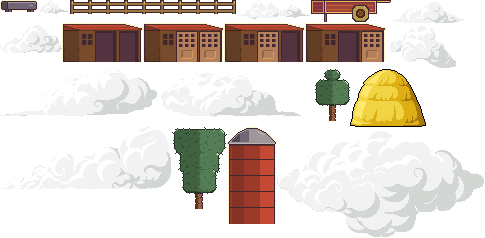
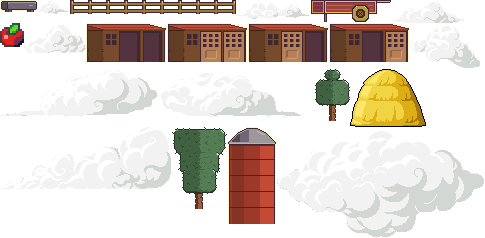
Breeding Notifications
Added flow and notifications.

Changed region(s): [[0.2474, 0.0882, 0.9897, 0.2941], [0.0, 0.0882, 0.2474, 0.2647]]

diff --git a/Horse Breeder/src/scenes/Game.js b/Horse Breeder/src/scenes/Game.js
@@ -1,6 +1,7 @@
 import HorseType from '../consts/HorseType.js';
 import { Horse } from '../sprites/Horse.js';
 import { CloudySky } from '../utils/CloudySky.js';
+import { Notification } from '../utils/Notification.js';
 
 export class Game extends Phaser.Scene {
 
@@ -32,6 +33,7 @@ export class Game extends Phaser.Scene {
         this.dropCount = 0;
 
         this.spriteGroup = this.add.group({runChildUpdate:true});
+        this.feedGroup = this.add.group();
 
         //  Graphics tools
 
@@ -97,8 +99,15 @@ export class Game extends Phaser.Scene {
         // Spawning
 
         this.time.addEvent({
-            delay: 1000,
+            delay: 3000,
             callback: this.spawnLogic,
+            callbackScope: this,
+            loop: true
+        });
+
+        this.time.addEvent({
+            delay: 3000,
+            callback: this.spawnFeed,
             callbackScope: this,
             loop: true
         });
@@ -141,15 +150,17 @@ export class Game extends Phaser.Scene {
             canvas.classList.remove("hand-fist");
             canvas.classList.add("hand-open");
         });
+
+        this.spawnFeed();
     }
 
     update(_, delta) {
         this.cloudManager.update();
 
         if (this.isGrabbing) {
-            const calmIncrease = 15 * (delta / 1000);
-            const newCalm = this.grabbed.calm + calmIncrease;
-            this.grabbed.calm = Math.min(newCalm, 100);
+            //const calmIncrease = 15 * (delta / 1000);
+            //const newCalm = this.grabbed.calm + calmIncrease;
+            //this.grabbed.calm = Math.min(newCalm, 100);
             this.updateDOM(this.grabbed);
         }
 
@@ -168,7 +179,19 @@ export class Game extends Phaser.Scene {
 
                 this.horseShadows.fillStyle(shadow.col, shadow.alpha);
                 this.horseShadows.fillEllipse(bounds.centerX, bounds.bottom - 1, bounds.width, 4);
+
+                if (sprite.calm >= 80) {
+                    this.horseShadows.lineStyle(1, 0xffffff, shadow.alpha);
+                    this.horseShadows.strokeEllipse(bounds.centerX, bounds.bottom - 1, bounds.width, 4);
+                }
             }
+        }
+
+        const feeds = this.feedGroup.getChildren();
+        for (let sprite of feeds) {
+            const bounds = sprite.getBounds();
+            this.horseShadows.fillStyle(0x000000, .3);
+            this.horseShadows.fillEllipse(bounds.centerX, bounds.bottom - 1, bounds.width, 4);
         }
     }
 
@@ -258,6 +281,10 @@ export class Game extends Phaser.Scene {
             type.sex = horse.sex;
             type.tame = horse.tame;
 
+            const sexLtr = horse.sex === 1 ? 'M' : 'F'
+            let stableMsg = `Put ${type.name} (${sexLtr}), ${horse.tame}% in stable`;
+            Notification.AddNotice(stableMsg, "plain");
+
             this.stable.push(type);
             horse.input.draggable = false;
             horse.destroy();
@@ -280,7 +307,6 @@ export class Game extends Phaser.Scene {
             if (this.captured.length < 4) {
 
                 //this.captured.push(horse);
-
                 horse.setVelocityX(-16);
 
                 const bottomY = horse.getBottomCenter().y;
@@ -300,6 +326,20 @@ export class Game extends Phaser.Scene {
                         duration: 200,
                         ease: 'Linear'
                     });
+                }
+
+                // Feed group check 
+                const isOverlappingFeed = this.feedGroup.getChildren().some(feedItem => {
+                    return Phaser.Geom.Intersects.RectangleToRectangle(horse.getBounds(), feedItem.getBounds());
+                });
+                if (isOverlappingFeed) {
+
+                    const overlappedFeedItem = this.feedGroup.getChildren().find(feedItem =>
+                        Phaser.Geom.Intersects.RectangleToRectangle(horse.getBounds(), feedItem.getBounds())
+                    );
+                    overlappedFeedItem.destroy(true);
+
+                    horse.calm += 20;
                 }
             }
             else {
@@ -344,6 +384,23 @@ export class Game extends Phaser.Scene {
             this.spriteGroup.add(horse);
         }
     }
+
+    //  -
+    spawnFeed() {
+        if (this.feedGroup.countActive() < 3) {
+
+            const width = this.scale.width;
+
+            const startX = Phaser.Math.Between(width * .45, width * .86);
+            const startY = Phaser.Math.Between(198, 216) - 8;
+
+            const feed = this.add.sprite(startX, startY, "atlas", "feed");
+            feed.setDepth(startY + 8);
+            this.feedGroup.add(feed);
+        }
+    }
+
+    //  -
 
     breedLogic() {
         
@@ -409,6 +466,16 @@ export class Game extends Phaser.Scene {
         horse.init(16);
         horse.playWalk();
         this.spriteGroup.add(horse);
+
+        if (isNewType) {
+            const typeMsg = `You have bred a ${type.name}`;
+            Notification.AddNotice(typeMsg, "flashing");
+        }
+        else {
+            const sexLtr = horse.sex === 1 ? 'M' : 'F';
+            const breedMsg = `Bred a ${type.name} (${sexLtr}) with ${horse.tame}% tameness`;
+            Notification.AddNotice(breedMsg, "breed-notice");
+        }
     }
 
     breedHUD() {

diff --git a/Horse Breeder/src/sprites/Horse.js b/Horse Breeder/src/sprites/Horse.js
@@ -1,3 +1,5 @@
+import HorseState from "../consts/HorseState.js"
+
 let UID = 1;
 
 export class Horse extends Phaser.Physics.Arcade.Sprite {
@@ -15,7 +17,7 @@ export class Horse extends Phaser.Physics.Arcade.Sprite {
         this.calm = Phaser.Math.Between(5, 20);
         this.sex =  Phaser.Math.Between(1, 2);
 
-        this.calm = 100;
+        this.state = HorseState.WILD;
 
         this.type = horseType;
         this.colNum = horseType.sheet;
@@ -33,6 +35,8 @@ export class Horse extends Phaser.Physics.Arcade.Sprite {
 
     update(_, delta) {
 
+        this.setDepth(this.getBottomCenter().y);
+
         const velocityX = this.body.velocity.x;
 
         if (!this.isTweeningFlip) {
@@ -43,7 +47,19 @@ export class Horse extends Phaser.Physics.Arcade.Sprite {
             }
         }
 
-        this.setDepth(this.getBottomCenter().y);
+        //  State switching
+        const speed = Math.abs(this.body.velocity.x);
+        if (speed < 64 && speed > 0) {
+
+            this.calm = Math.max(0, this.calm - (delta * .001) * 2);
+
+            // CALM
+            this.pacing();
+
+            if (this.calm <= 0) {
+                this.escaping();
+            }
+        }
 
         // Check if the horse has moved off-screen
         if ((this.x < -this.width / 2) && velocityX < 0) {
@@ -53,10 +69,26 @@ export class Horse extends Phaser.Physics.Arcade.Sprite {
         }
     }
 
-    setDragging() {
+    pacing() {
+
+        const min = this.scene.scale.width * .35;
+        const max = this.scene.scale.width * .85;
+        const velX = this.body.velocity.x;
+
+        if (this.x >= max && velX > 0) {
+            this.setVelocityX(velX * -1);
+        }
+        else if (this.x <= min && velX < 0) {
+            this.setVelocityX(velX * -1);
+        }
     }
 
-    stopDrag() {
+    escaping() {
+        const speed = Math.abs(this.body.velocity.x);
+        if (speed < 64) {
+            this.body.velocity.x *= 5;
+            this.playRun();
+        }
     }
 
     getShadowColour() {

diff --git a/Horse Breeder/css/all.css b/Horse Breeder/css/all.css
@@ -130,12 +130,19 @@ img.player-image {
     position: absolute;
     left: 2rem;
     bottom: 2rem;
-    width: 400px;
+    width: 35%;
+    min-width: 400px;
     height: 7rem;
 
     background-color: rgba(0, 0, 0, .3);
     border-radius: 1rem;
     padding: 1rem;
+}
+.notifications-list {
+    position: relative;
+    overflow: hidden;
+    width: 100%;
+    height: 100%;
 }
 
 .notification-message {
@@ -143,6 +150,27 @@ img.player-image {
     font-family: "Silkscreen", sans-serif;
     text-shadow: 1px 1px 0 #000;
 }
+
+.breed-notice {
+    color: lightsalmon;
+}
+.flashing {
+    animation: flashing-color 1s infinite; /* 1s duration, infinite loop */
+}
+
+@keyframes flashing-color {
+    0% {
+        color: yellow;
+    }
+    50% {
+        color: brown;
+        
+    }
+    100% {
+        color: yellow;
+    }
+}
+
 
 /*  -   Horse breeding bar      -------------------------------------------- */
 

diff --git a/Horse Breeder/index.html b/Horse Breeder/index.html
@@ -116,10 +116,10 @@
             </section>
 
             <!-- Notifications -->
-            <section id="notifications" class="notification-box">
-                <p id="notification-template" class="notification-message">You unlocked a new breed</p>
-                <p id="n1" class="notification-message">Successfully bred a new horse</p>
-                <p id="n2" class="notification-message">Food unlocked</p>
+            <section id="" class="notification-box">
+                <div id="notifications" class="notifications-list">
+                    <p id="notification-template" class="notification-message">Welcome, let's get started.</p>
+                </div>
             </section>
 
             <!-- Horse breeding bar -->

diff --git a/Horse Breeder/src/utils/Notification.js b/Horse Breeder/src/utils/Notification.js
@@ -1,0 +1,15 @@
+export class Notification {
+
+    static AddNotice(msg, style) {
+
+        const divElement = document.getElementById("notifications");
+
+        // Create a new paragraph element for the notification
+        const newNotification = document.createElement('p');
+        newNotification.textContent = msg;
+        newNotification.className = style;
+        newNotification.classList.add("notification-message");
+
+        divElement.insertBefore(newNotification, divElement.firstChild);
+    }
+}

diff --git a/Horse Breeder/src/consts/HorseState.js b/Horse Breeder/src/consts/HorseState.js
@@ -1,0 +1,6 @@
+const HorseState = {
+    WILD: 1,
+    CAPTURED: 2,
+    TRAINED: 3,
+}
+export default HorseState;
